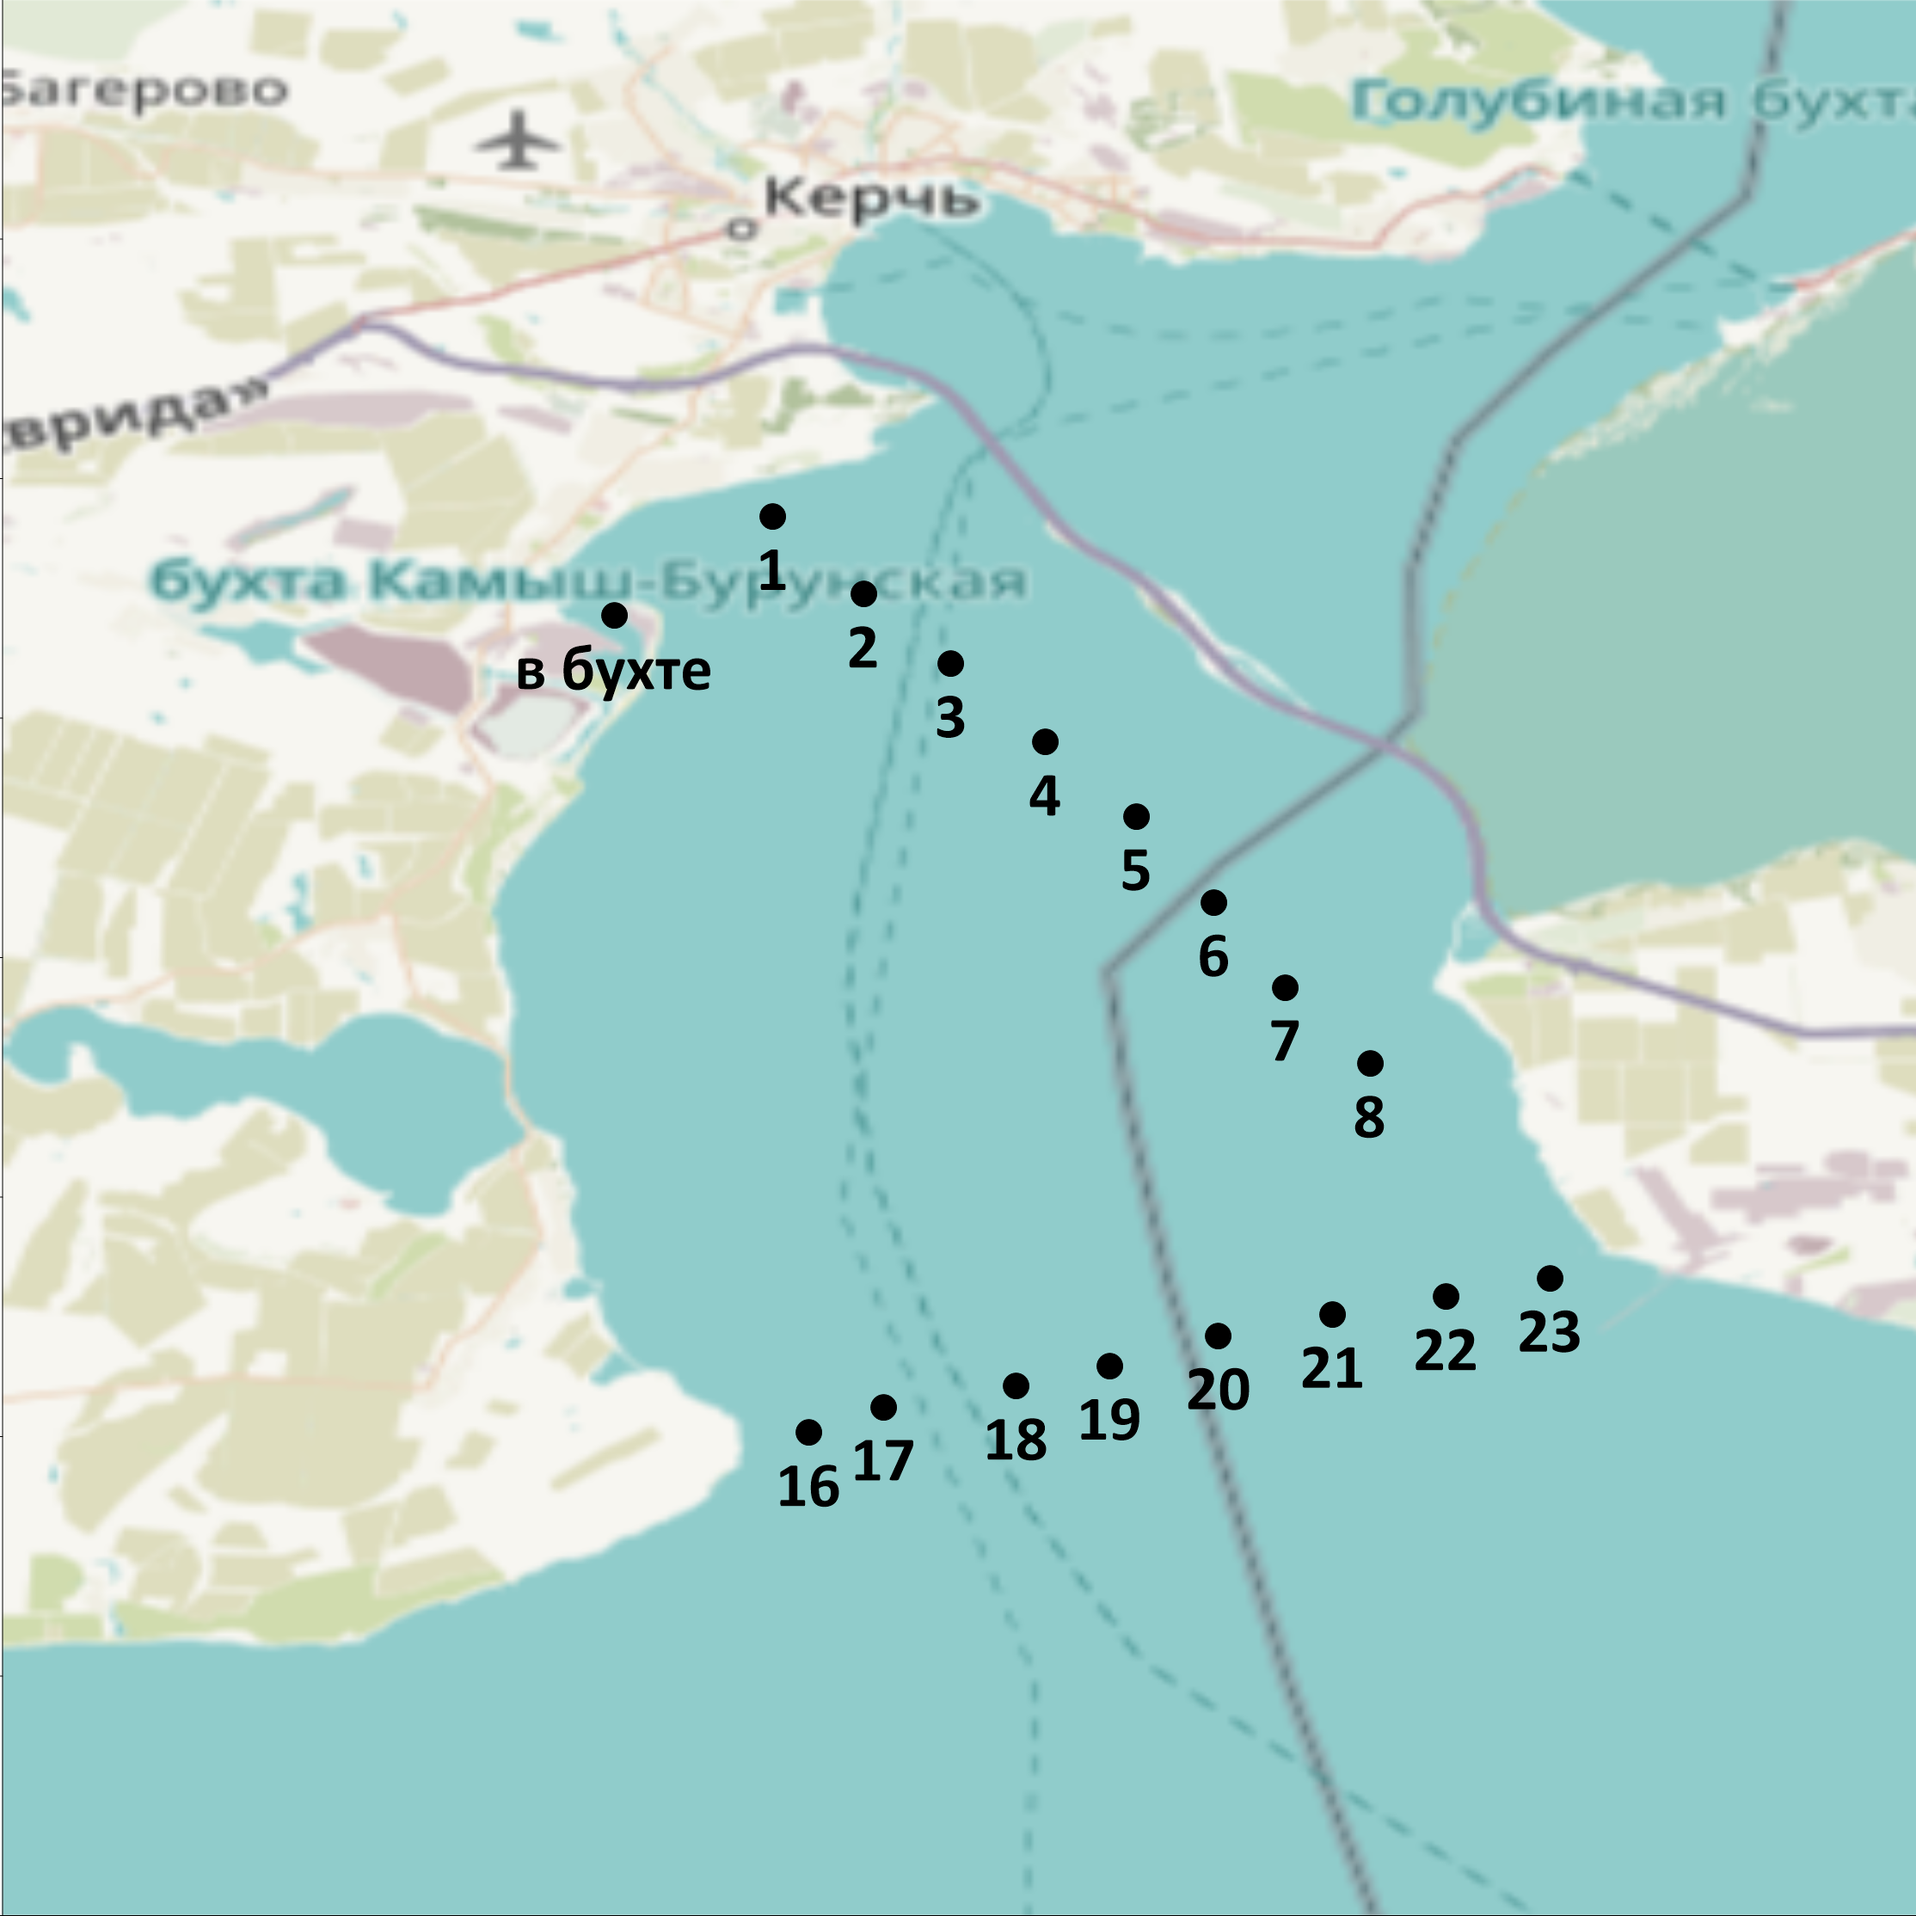
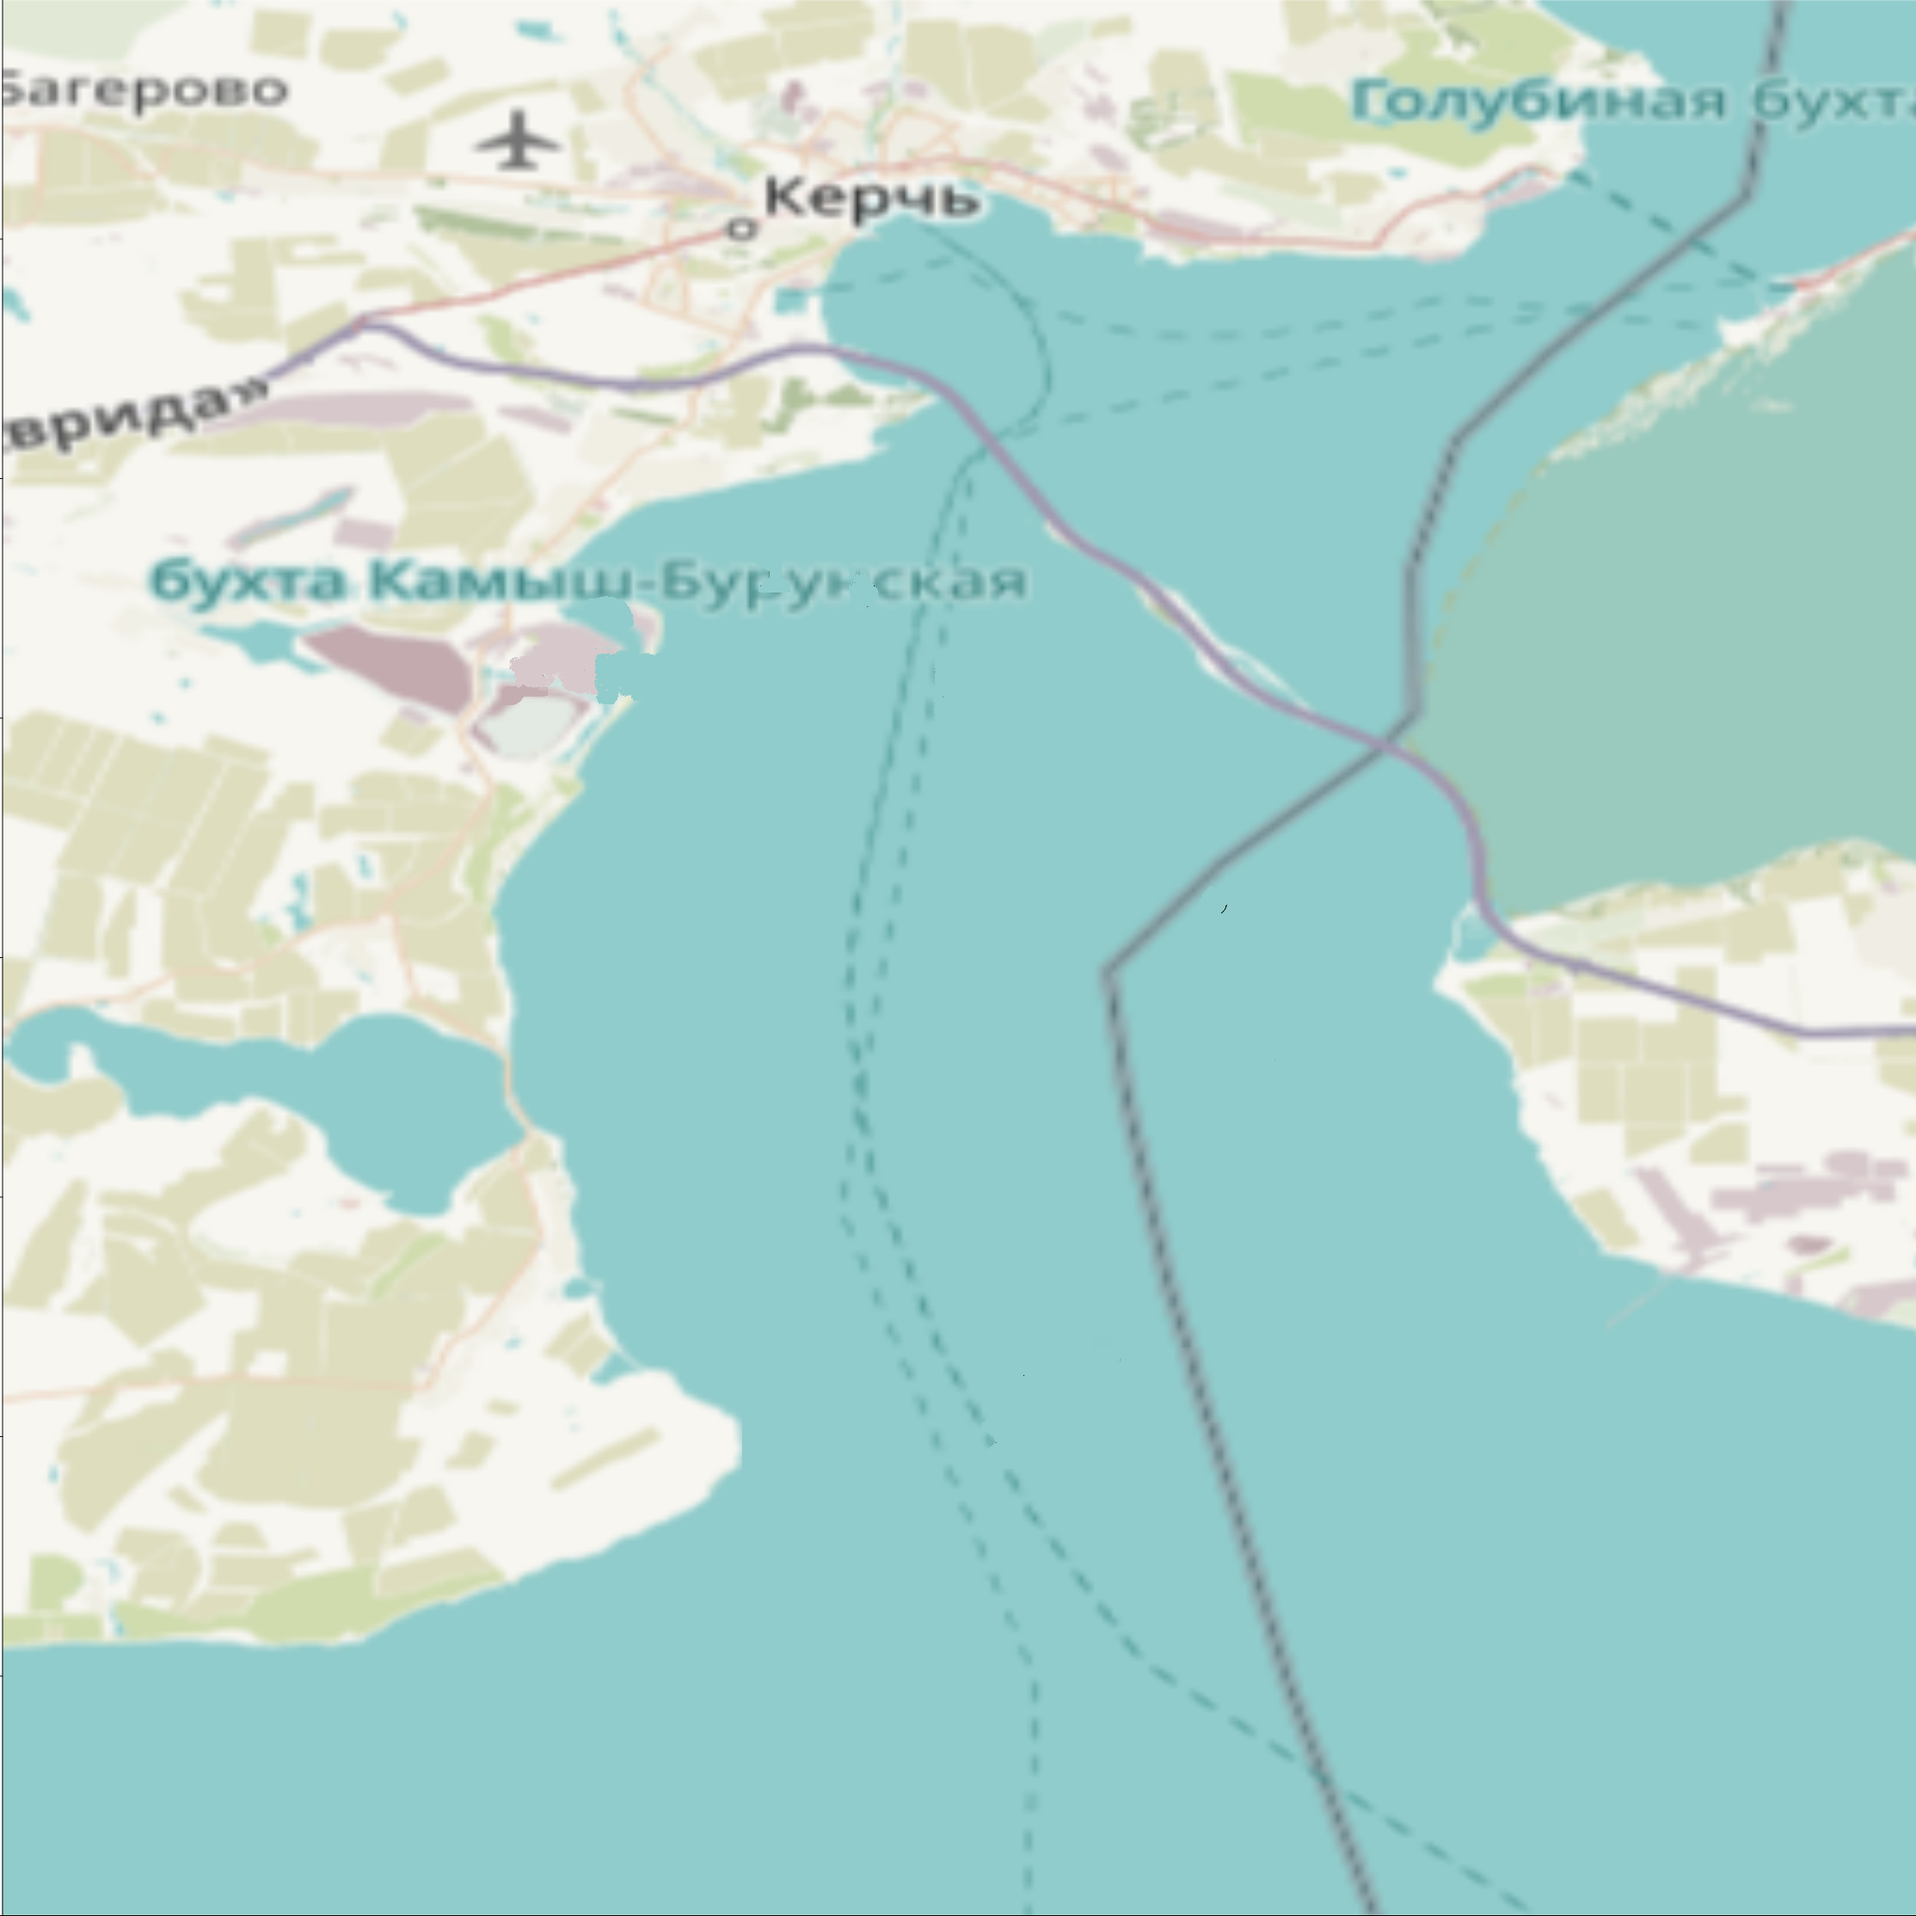
Put station labels on map.

diff --git a/task_suspension.m b/task_suspension.m
@@ -5,7 +5,6 @@ suspension1 = [3.48 2.49 1.94 1.41 0.49 0.55 0.36 0.64]; % 10.08.21
 suspension2 = [1.09 1.18 0.63 0.62 0.88 0.67 1.21 1.56]; % 11.08.21
 
 depth1 = 1;
-depth2 = 4;
 
 coo = sr_get_station_coordinates();
 [ranges1, ranges2, stations1, stations2, figureTitle1, figureTitle2] = sr_get_ranges_and_stations();
@@ -13,8 +12,11 @@ coo = sr_get_station_coordinates();
 
 figure;
 ax1 = axes;
+sz = get(0, 'ScreenSize');
+set(gcf, 'position', [0 0 min(sz(3),sz(4))*0.9 min(sz(3),sz(4))*0.9]);
 sr_load_coastline_map(ax1);
 sr_put_scale_vector_on_map(ax1);
+sr_put_stations_on_map(ax1);
 [Vn, Ve, T, H0] = sr_load_data(filename1);
 [Vn, Ve, H0] = sr_extract_depths(Vn, Ve, H0, depth1);
 set(get(ax1, 'Title'), 'String', ['10/08/21, depth = ' num2str(H0(depth1))]);
@@ -22,18 +24,6 @@ ShowDayVectors(ax1, Vn, Ve, T, ranges1, coo(1:8, :), suspension1);
 [Vn, Ve, T, H0] = sr_load_data(filename2);
 [Vn, Ve, H0] = sr_extract_depths(Vn, Ve, H0, depth1);
 ShowDayVectors(ax1, Vn, Ve, T, ranges2, coo(9:16, :), suspension2);
-
-figure;
-ax2 = axes;
-sr_load_coastline_map(ax2);
-sr_put_scale_vector_on_map(ax2);
-[Vn, Ve, T, H0] = sr_load_data(filename1);
-set(get(ax2, 'Title'), 'String', ['11/08/21, depth = ' num2str(H0(depth2))]);
-[Vn, Ve, H0] = sr_extract_depths(Vn, Ve, H0, depth2);
-ShowDayVectors(ax2, Vn, Ve, T, ranges1, coo(1:8, :), suspension1);
-[Vn, Ve, T, H0] = sr_load_data(filename2);
-[Vn, Ve, H0] = sr_extract_depths(Vn, Ve, H0, depth2);
-ShowDayVectors(ax2, Vn, Ve, T, ranges2, coo(9:16, :), suspension2);
 end
 
 function ShowDayVectors(ax, Vn, Ve, T, ranges, coordinates, suspension) 
@@ -50,8 +40,8 @@ function ShowDayVectors(ax, Vn, Ve, T, ranges, coordinates, suspension)
         sr_show_vector_on_map(ax, coo(:, 1), coo(:, 2), ve, vn, [0 0.7 0], 1.5);
         
         sus = suspension(coordinateIdx);
-        ve = ve * sus; % The same as: ve / norm([ve vn]) * (mag * sus);
-        vn = vn * sus; % The same as: ve / norm([ve vn]) * (mag * sus);
+        ve = ve * sus; % The same as: ve / norm([ve vn]) * (norm([ve vn]) * sus);
+        vn = vn * sus; % The same as: ve / norm([ve vn]) * (norm([ve vn]) * sus);
         
         sr_show_vector_on_map(ax, coo(:, 1), coo(:, 2), ve, vn, [1 0 0], 0.5);
     end

diff --git a/sr_put_stations_on_map.m b/sr_put_stations_on_map.m
@@ -1,0 +1,11 @@
+function sr_put_stations_on_map(ax)
+coo = sr_get_station_coordinates();
+plot(ax, coo(:, 1), coo(:, 2), 'k.')
+lab = [{'st1'} {'st2'} {'st3'} {'st4'} {'st5'} {'st6'} {'st7'} {'st8'} {'st16'} {'st17'} {'st18'} {'st19'} {'st20'} {'st21'} {'st22'} {'st23'}];
+for idx = 1:length(coo(1:8, :))
+   sr_text(coo(idx,1), coo(idx,2), cell2mat(lab(idx)), 'bl', [0 0 0], 10);
+end
+for idx = 9:length(coo)
+   sr_text(coo(idx,1), coo(idx,2), cell2mat(lab(idx)), 'tr', [0 0 0], 10);
+end
+end

diff --git a/sr_text.m b/sr_text.m
@@ -21,7 +21,11 @@ if strcmp(position, 'tr')
 end
 if strcmp(position, 'bl')
     pos(2) = pos(2) - 0.7 * height;
-    pos(1) = pos(1) - width;
+    pos(1) = pos(1) - 0.7 * width;
+end
+if strcmp(position, 'bll')
+    pos(2) = pos(2) - 0.7 * height;
+    pos(1) = pos(1) - 0.7 * 2.0 * width;
 end
 set(h, 'Position', pos);
 end
